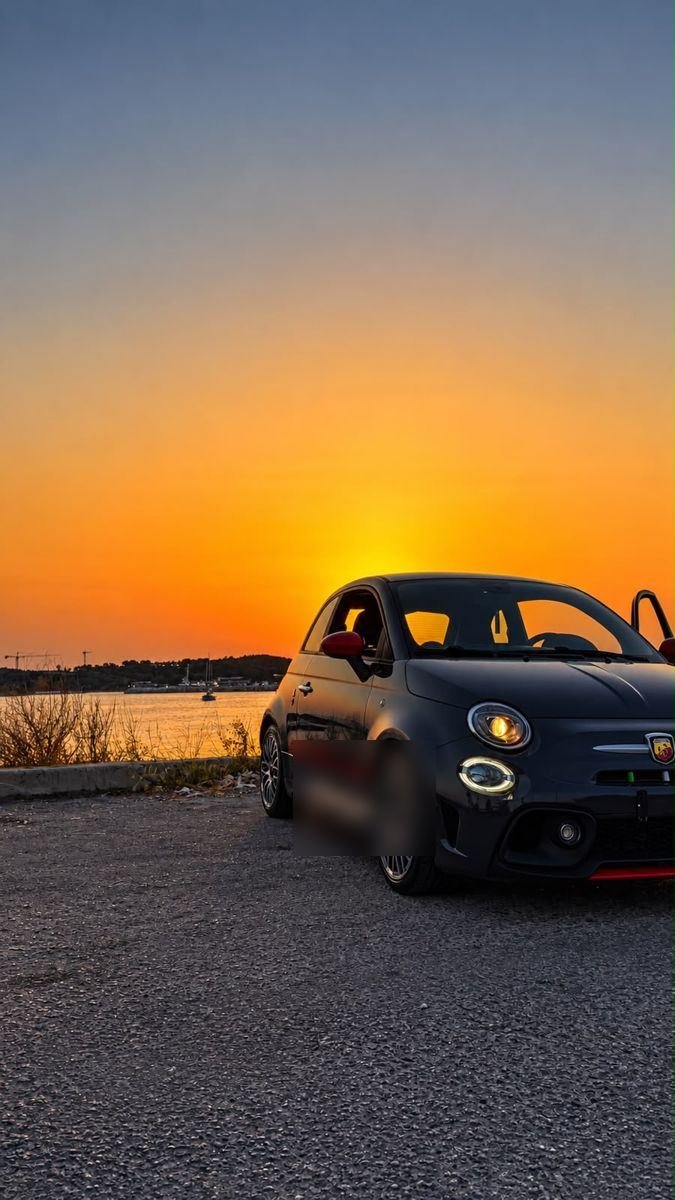
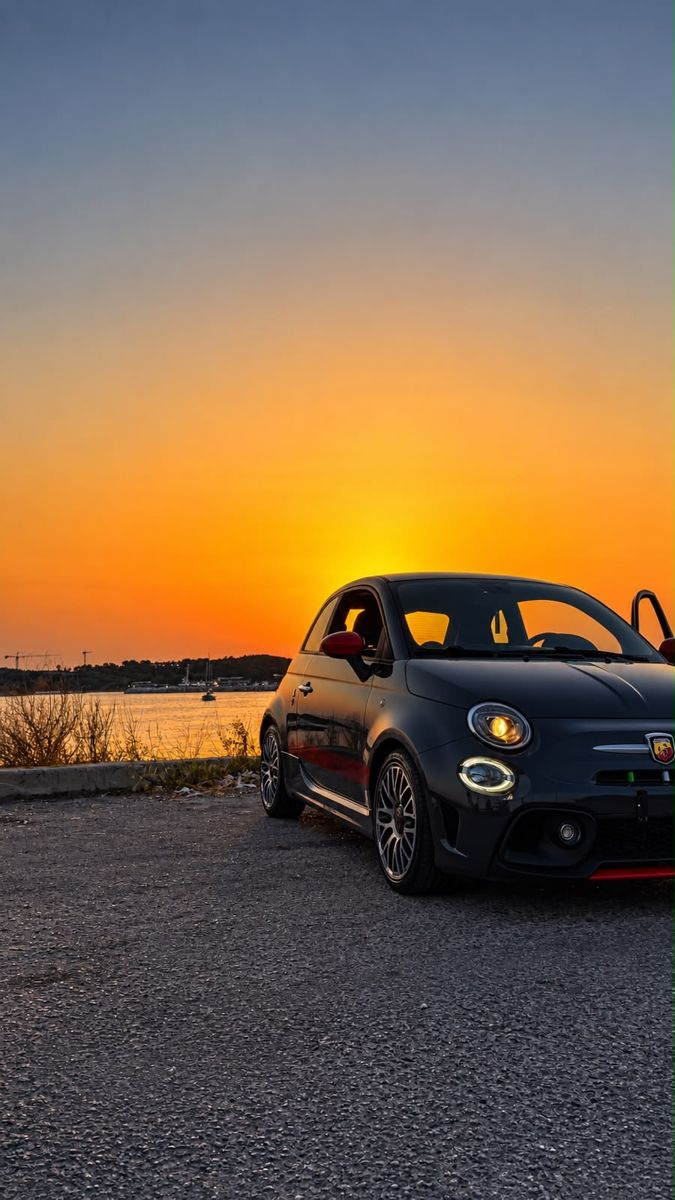
Intro shows a member's Abarth 595; restore three photos without plates
Claude-Session: https://claude.ai/code/session_011bzqyr9SddVAFr9MMgP3rB

Changed region(s): [[0.4356, 0.6167, 0.6222, 0.7092]]

diff --git a/index.html b/index.html
@@ -681,6 +681,14 @@ section[id]{scroll-margin-top:calc(70px + env(safe-area-inset-top,0px))}
 
 @media (max-width:350px){.navlinks a{font-size:8.5px}.navlinks a svg{width:16px;height:16px}}
 @media (max-height:500px) and (orientation:landscape){.wordmark{font-size:clamp(44px,8vw,96px)}.navlinks a{padding:5px 1px}.navlinks a svg{width:15px;height:15px}body{padding-bottom:56px}}
+
+#intro .in-photo{width:min(260px,58vw);margin-left:calc(min(260px,58vw) / -2);top:calc(50% - 30px)}
+#intro .in-photo img{display:block;width:100%;aspect-ratio:486/436;object-fit:cover;border-radius:22px;border:3px solid #f3f1ec;box-shadow:0 18px 50px rgba(0,0,0,.7),0 0 0 6px rgba(229,32,46,.35);animation:inDip 2.3s ease forwards}
+#intro .in-photo .speed{position:absolute;right:100%;top:18%;width:60vw;height:64%;background:repeating-linear-gradient(180deg,transparent 0 10px,rgba(243,241,236,.18) 10px 12px);-webkit-mask:linear-gradient(90deg,transparent,#000);mask:linear-gradient(90deg,transparent,#000);animation:speedFade 2.3s ease forwards}
+@keyframes speedFade{0%,38%{opacity:1}46%,64%{opacity:0}78%,100%{opacity:1}}
+#intro .in-photo~.smoke{top:calc(50% - 30px + min(210px,46vw))}
+#intro:has(.in-photo) .in-road{top:calc(50% - 30px + min(236px,52vw))}
+#intro:has(.in-photo) .in-sub{top:calc(50% + min(240px,54vw))}
 </style>
 <style>html{color-scheme:dark}body{margin:0}img{max-width:100%}[hidden]{display:none!important}:root{padding-top:env(safe-area-inset-top,0px);padding-bottom:env(safe-area-inset-bottom,0px)}</style>
 <script data-goatcounter="https://abarthclubgr.goatcounter.com/count" async src="https://gc.zgo.at/count.js"></script>
@@ -1306,7 +1314,7 @@ try{if('scrollRestoration' in history)history.scrollRestoration='manual'}catch(e
 (function intro(){let seen=false;try{seen=sessionStorage.getItem('acg-intro')==='1';sessionStorage.setItem('acg-intro','1')}catch(e){}
  if(seen||matchMedia('(prefers-reduced-motion: reduce)').matches)return;
  const d=document.createElement('div');d.id='intro';d.setAttribute('aria-hidden','true');
- d.innerHTML='<div class="in-road"></div><div class="in-title">ABARTH<span>_CLUB_</span><b>GR</b></div><div class="in-car"><svg class="car-svg" viewBox="0 0 124 52" aria-hidden="true"><defs><linearGradient id="beam" x1="0" x2="1"><stop offset="0" stop-color="#ffe9a8" stop-opacity=".55"/><stop offset="1" stop-color="#ffe9a8" stop-opacity="0"/></linearGradient></defs><path class="beam" d="M114 27 L124 20 L124 38 Z" fill="url(#beam)"/><path d="M6 36 Q6 27 15 25 L33 23 Q43 11 59 10 L79 10 Q92 11 100 23 L109 25.5 Q116 27.5 116 35 L116 39 L6 39 Z" fill="#e5202e"/><path d="M40 23 Q47 14.5 59 13.5 L65 13.5 L65 23 Z M69 13.5 L79 13.5 Q89 14.5 95 23 L69 23 Z" fill="#1a2230"/><rect x="10" y="29" width="34" height="3" fill="#10a352"/><rect x="44" y="29" width="34" height="3" fill="#f3f1ec"/><rect x="78" y="29" width="34" height="3" fill="#b3121e"/><rect x="6" y="28" width="4" height="4" rx="1" fill="#ff5a5a"/><circle cx="112" cy="30" r="2.6" fill="#ffe9a8"/><g transform="translate(30 39)"><g class="wheel"><circle r="9.5" fill="#111"/><circle r="5.5" fill="#9a9a9e"/><path d="M0-5.5V5.5M-5.5 0H5.5M-3.9-3.9 3.9 3.9M-3.9 3.9 3.9-3.9" stroke="#333" stroke-width="1.4"/></g></g><g transform="translate(94 39)"><g class="wheel"><circle r="9.5" fill="#111"/><circle r="5.5" fill="#9a9a9e"/><path d="M0-5.5V5.5M-5.5 0H5.5M-3.9-3.9 3.9 3.9M-3.9 3.9 3.9-3.9" stroke="#333" stroke-width="1.4"/></g></g></svg></div><i class="smoke"></i><i class="smoke s2"></i><div class="in-sub">Athens · Est. 2026</div><button class="in-skip" type="button">Παράλειψη ›</button>';
+ d.innerHTML='<div class="in-road"></div><div class="in-title">ABARTH<span>_CLUB_</span><b>GR</b></div><div class="in-car in-photo"><span class="speed"></span><img src="img/intro-595.jpg" alt=""></div><i class="smoke"></i><i class="smoke s2"></i><div class="in-sub">Athens · Est. 2026</div><button class="in-skip" type="button">Παράλειψη ›</button>';
  document.body.appendChild(d);document.body.style.overflow='hidden';
  const end=()=>{if(!d.isConnected)return;d.remove();document.body.style.overflow='';window.scrollTo(0,0)};
  d.addEventListener('click',end);setTimeout(end,2900)})();
